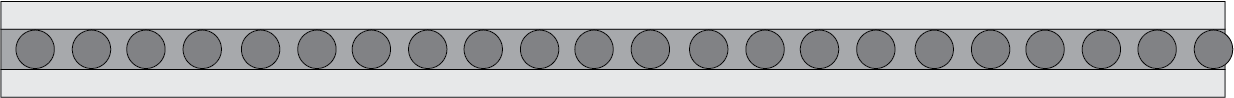
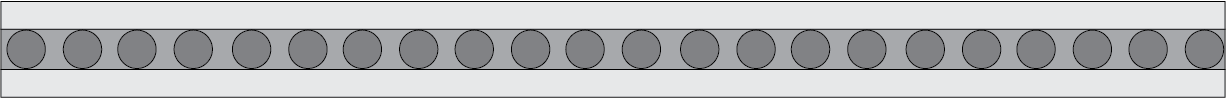
12/14 8:30pm

Changed region(s): [[0.0, 0.0, 1.0, 1.0]]

diff --git a/FINAL/FINAL.css b/FINAL/FINAL.css
@@ -4,7 +4,7 @@
 .parent {
 	position: relative;
 	width: 800px;
-	height: auto;
+	height: 375px;
 	margin-left: auto;
 	margin-right: auto;
 	overflow: center;
@@ -96,6 +96,10 @@ a{
 	justify-content: center;
 	top: 333px;
 	z-index: 2;
+	width: 1234px;
+	height: 98px;
+	top: 342px;
+	overflow: hidden;
 }
 
 .belt img{
@@ -248,7 +252,7 @@ a{
 }*/
 
 .center{
-	width: 1200px;
+	width: 1234px;
 	height: 500px;
 	margin-left: auto;
 	margin-right: auto;
